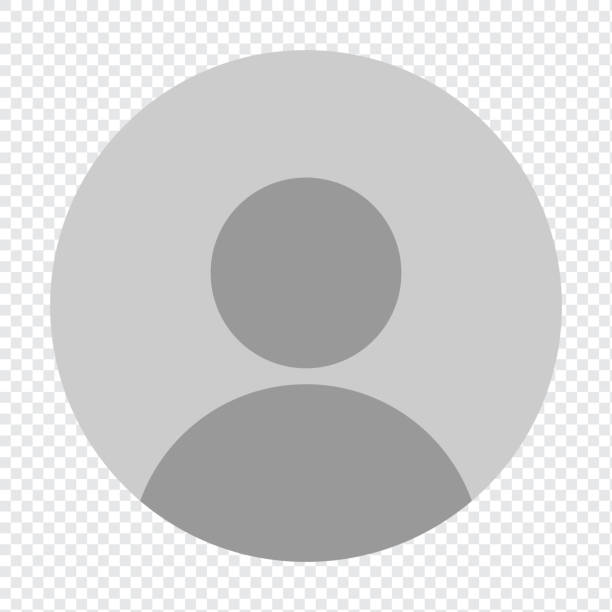
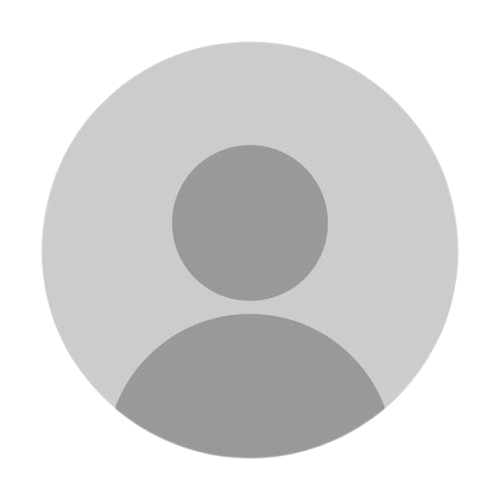
Onboarding issue
- Fixed onboarding profile picture default
- Fixed onboarding issue

Changed region(s): [[0.0, 0.0, 1.0, 1.0]]

diff --git a/src/views/user/Onboarding.vue b/src/views/user/Onboarding.vue
@@ -18,7 +18,7 @@ const totalSteps = 4 // incremented by 1
 const interests = ref([])
 const budget = ref("all")
 const transportModes = ref([])
-const profilePicture = ref("https://www.vecteezy.com/vector-art/4511281-default-avatar-photo-placeholder-profile-picture")
+const profilePicture = ref("/avatars/placeholder.png")
 const userId = ref(null)
 
 const categories = [
@@ -67,6 +67,7 @@ async function finishOnboarding() {
   }
   await savePreferences(data)
   toast.success("Your preferences have been saved.")
+  window.location.reload();
   router.push("/")
 }
 
